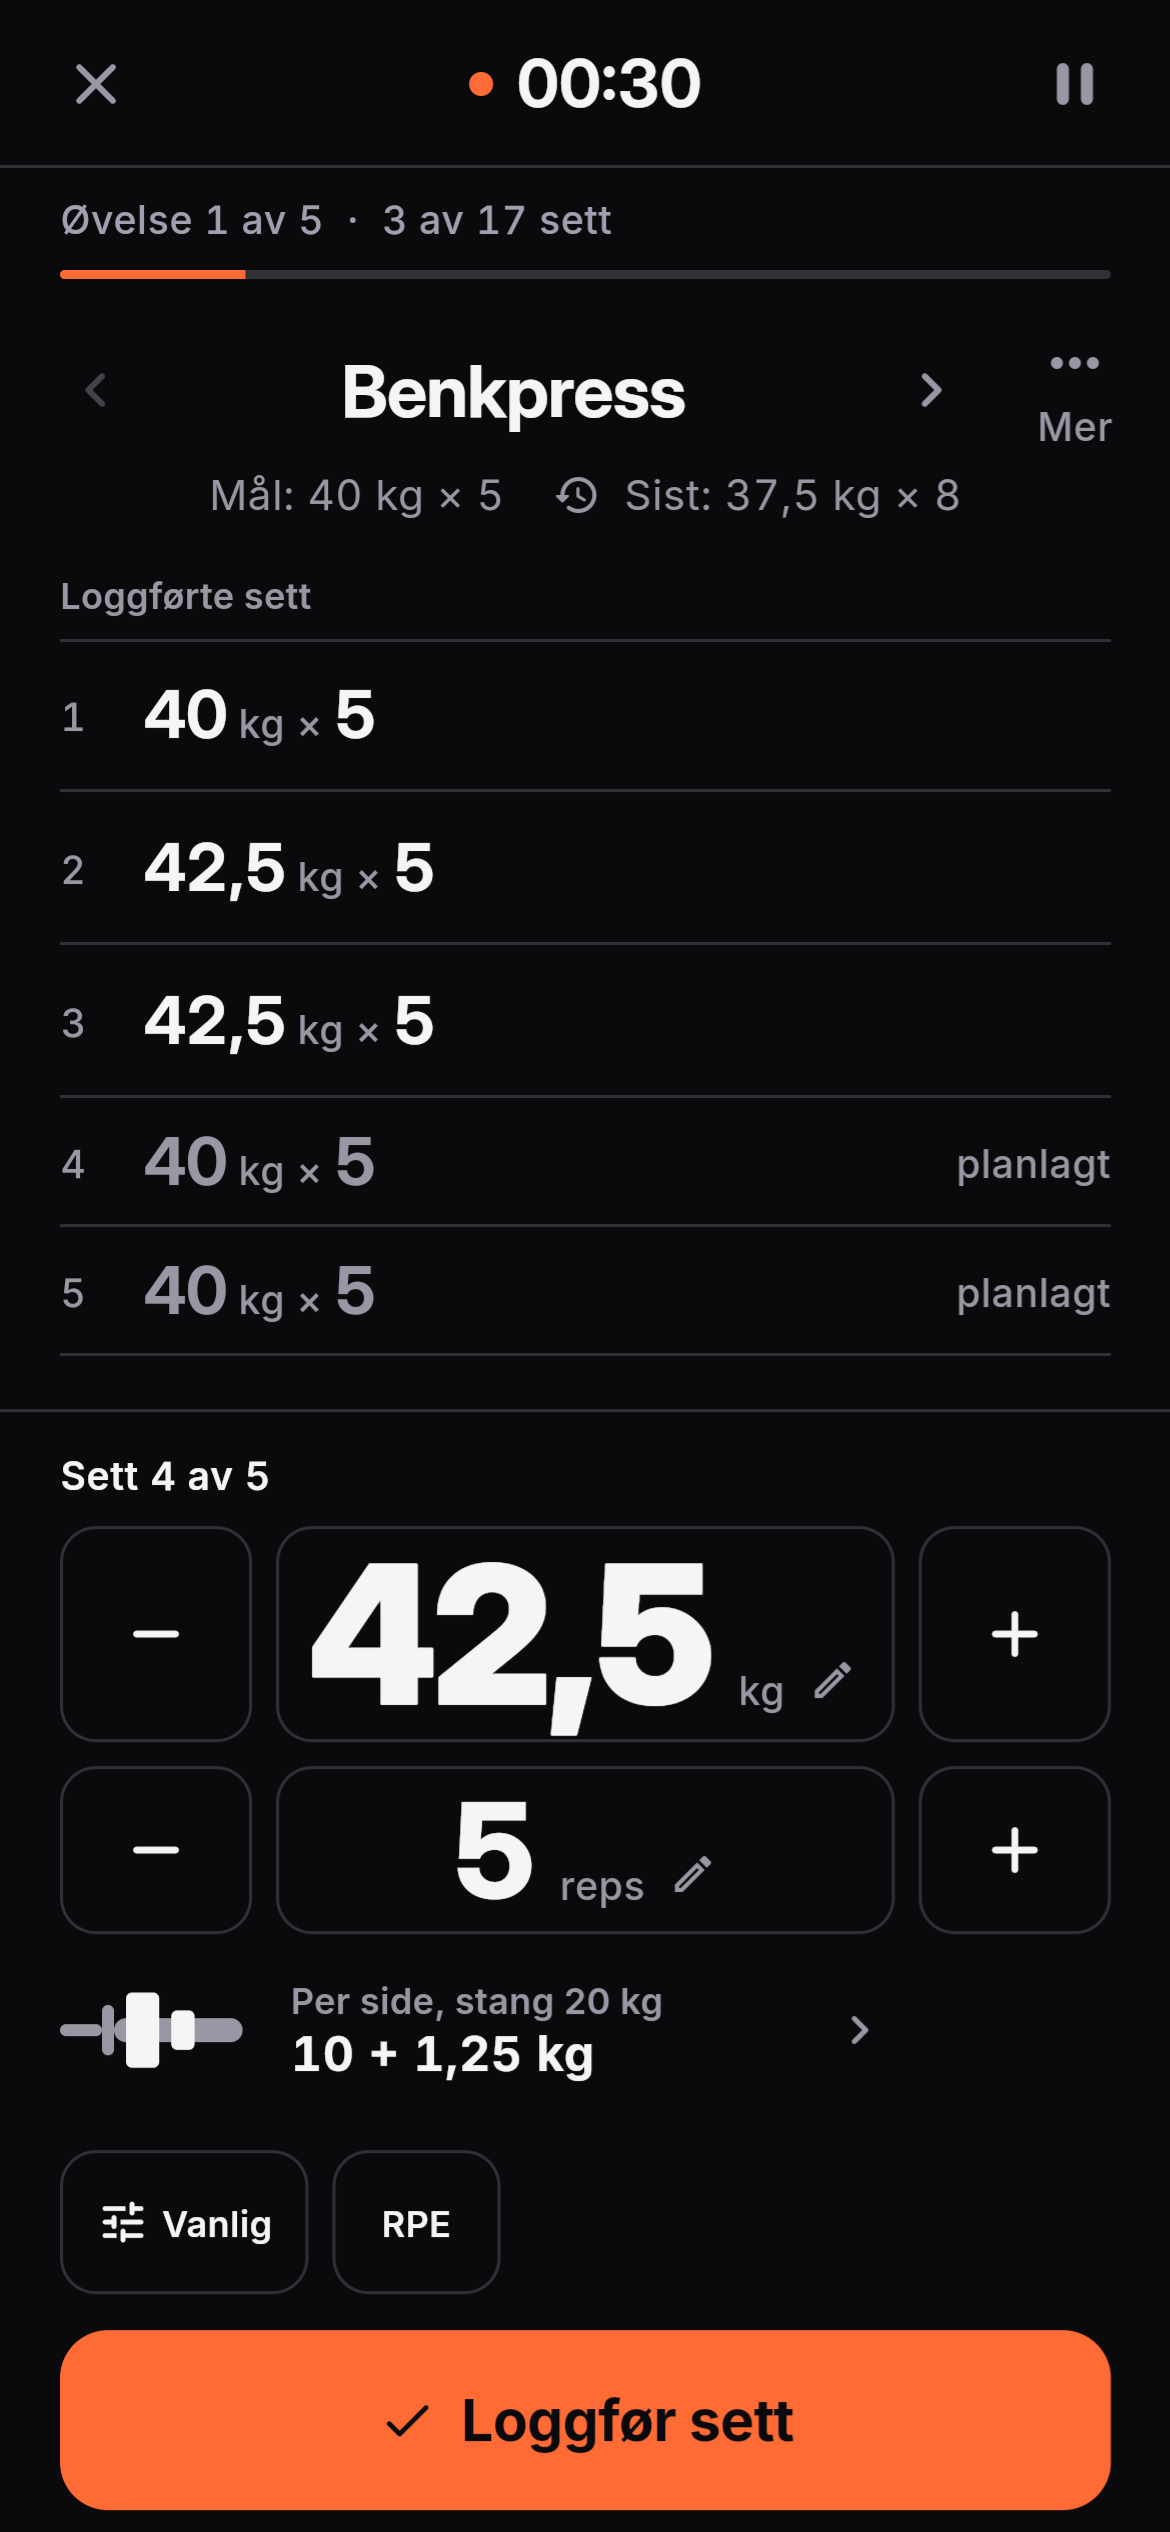
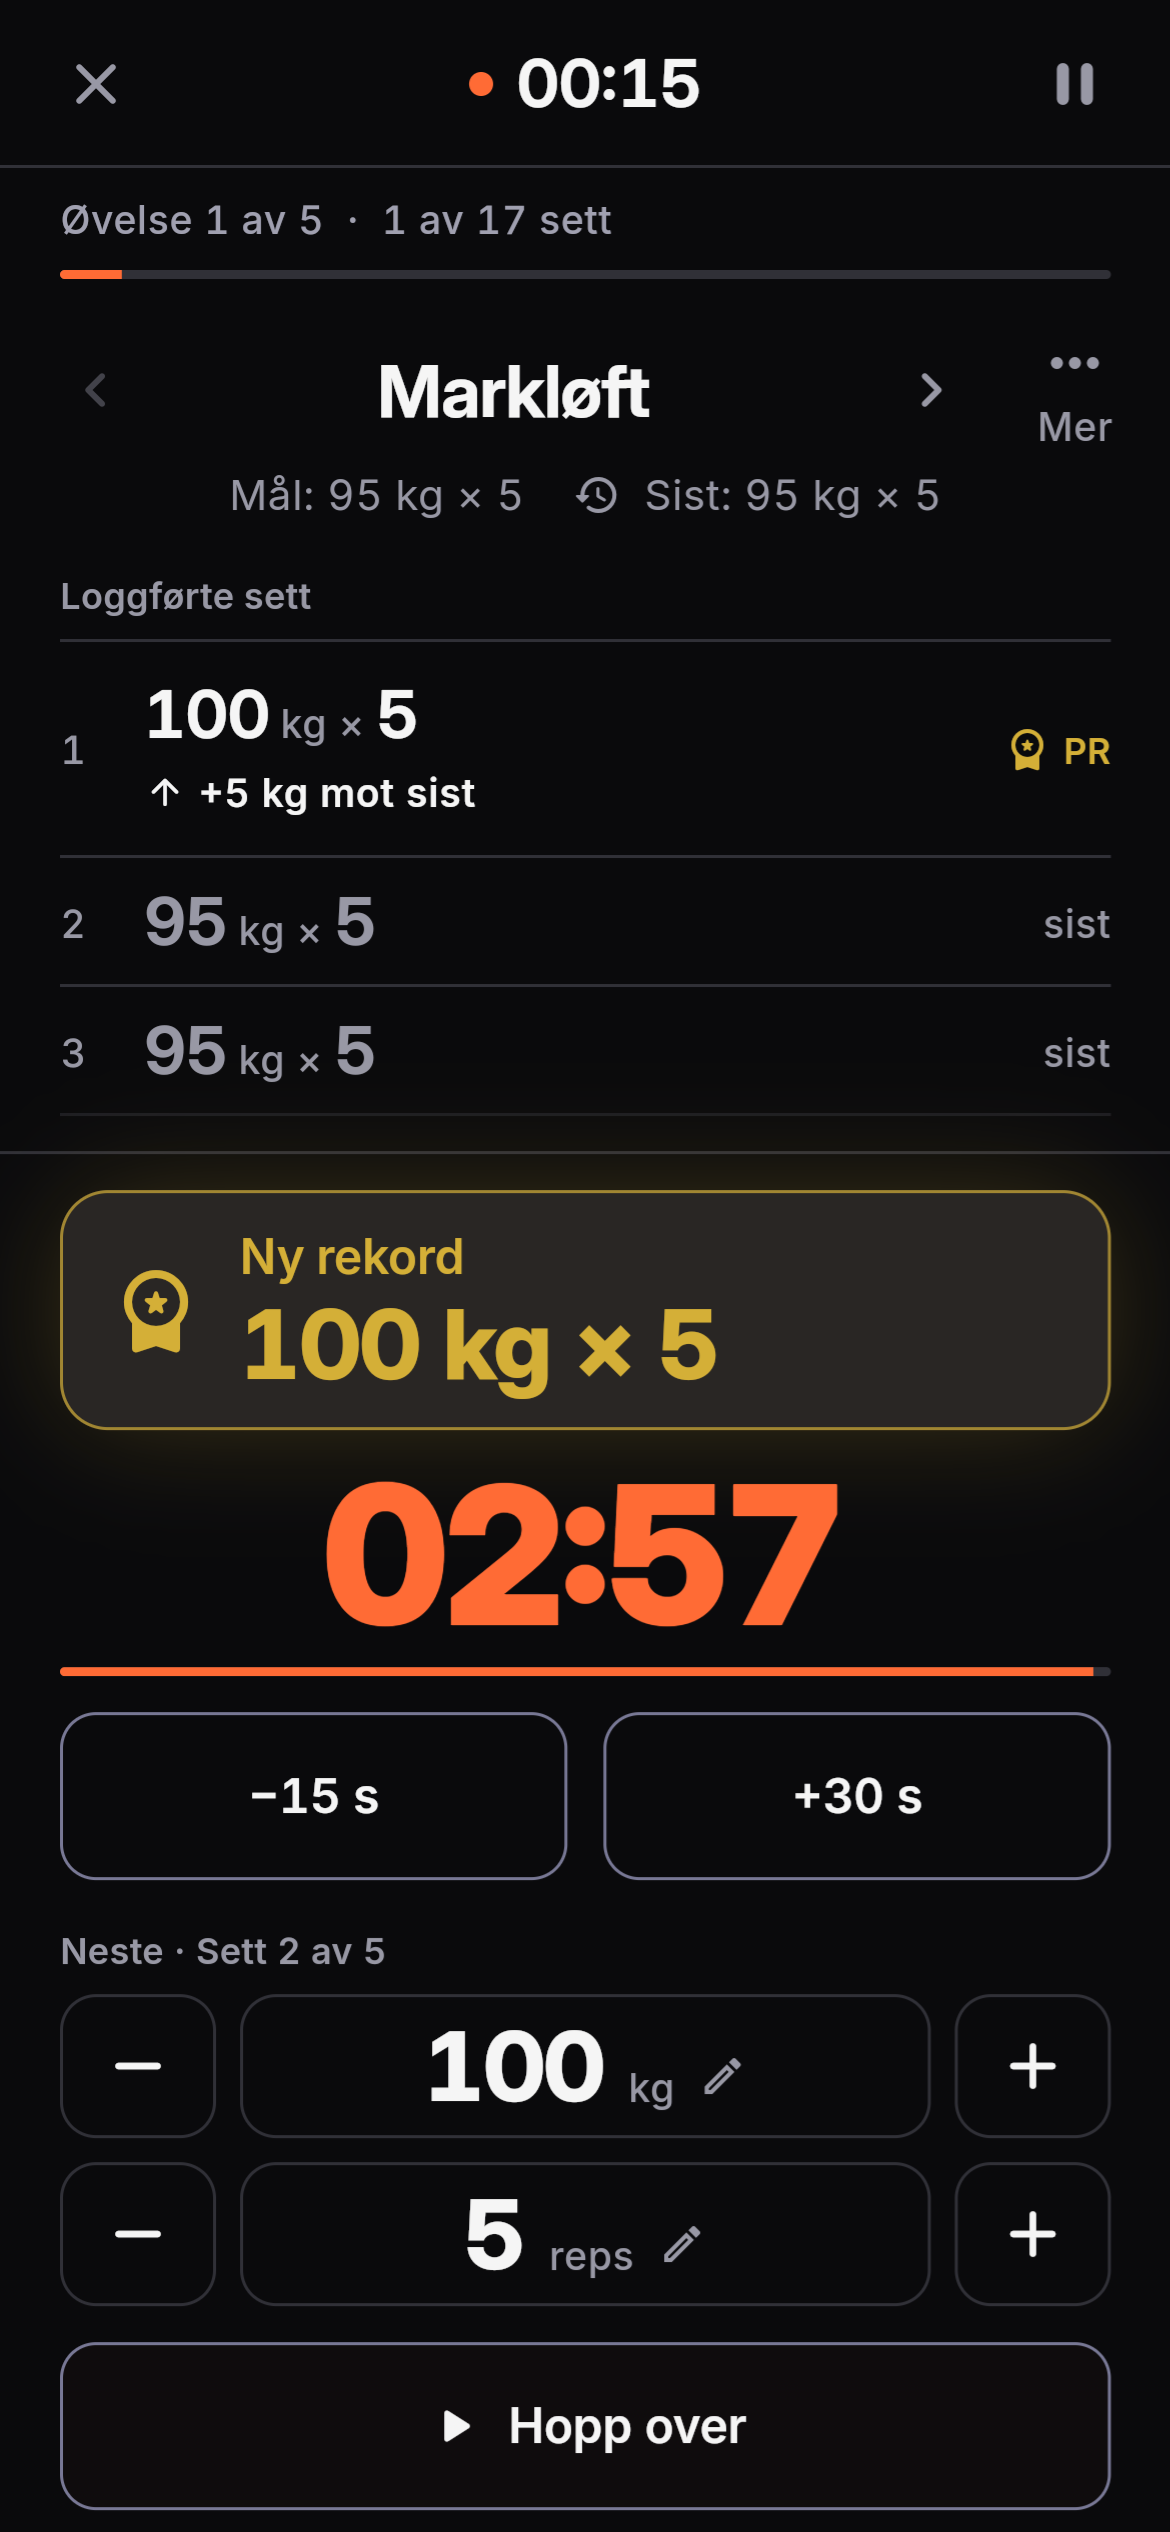
Show the exercise drawings and the gold record

diff --git a/src/site.css b/src/site.css
@@ -78,12 +78,12 @@ a:focus-visible,.btn:focus-visible{outline:2px solid var(--ember);outline-offset
 /* member scene: sticky phone, steps scroll past */
 .scene{padding:clamp(5rem,12vw,10rem) 0 clamp(3rem,8vw,6rem)}
 .scene__head .lead{margin-top:1.5rem}
-.scene__grid{display:grid;grid-template-columns:minmax(0,32rem) minmax(0,1fr);gap:clamp(2rem,6vw,6rem);margin-top:clamp(2rem,5vw,4rem);timeline-scope:--s1,--s2,--s3,--s4}
+.scene__grid{display:grid;grid-template-columns:minmax(0,32rem) minmax(0,1fr);gap:clamp(2rem,6vw,6rem);margin-top:clamp(2rem,5vw,4rem);timeline-scope:--s1,--s2,--s3,--s4,--s5}
 .steps{list-style:none;margin:0;padding:0 0 0 2rem;position:relative}
 .steps::before{content:"";position:absolute;left:0;top:0;bottom:0;width:1px;background:var(--hair)}
 .steps::after{content:"";position:absolute;left:0;top:0;bottom:0;width:1px;background:var(--ember);transform-origin:50% 0;transform:scaleY(1)}
 .step{min-height:72svh;display:flex;flex-direction:column;justify-content:center;gap:1rem;max-width:30rem}
-.step:nth-child(1){view-timeline-name:--s1}.step:nth-child(2){view-timeline-name:--s2}.step:nth-child(3){view-timeline-name:--s3}.step:nth-child(4){view-timeline-name:--s4}
+.step:nth-child(1){view-timeline-name:--s1}.step:nth-child(2){view-timeline-name:--s2}.step:nth-child(3){view-timeline-name:--s3}.step:nth-child(4){view-timeline-name:--s4}.step:nth-child(5){view-timeline-name:--s5}
 .step h3{font-size:clamp(1.8rem,3.2vw,3rem);font-weight:900;letter-spacing:-.025em;line-height:1.05}
 .step p{color:var(--ink-2);font-size:1.0625rem}
 .step__shot{display:none}
@@ -249,6 +249,7 @@ a:focus-visible,.btn:focus-visible{outline:2px solid var(--ember);outline-offset
     .screen:nth-child(2){animation:cf-wipe linear both;animation-timeline:--s2;animation-range:entry 80% contain 5%}
     .screen:nth-child(3){animation:cf-wipe linear both;animation-timeline:--s3;animation-range:entry 80% contain 5%}
     .screen:nth-child(4){animation:cf-wipe linear both;animation-timeline:--s4;animation-range:entry 80% contain 5%}
+    .screen:nth-child(5){animation:cf-wipe linear both;animation-timeline:--s5;animation-range:entry 80% contain 5%}
     @keyframes cf-rise{from{transform:translateY(3rem) scale(.96)}to{transform:none}}
     .gym__photo,.door,.mini{animation:cf-rise linear both;animation-timeline:view();animation-range:entry 0% cover 35%}
   }

diff --git a/src/index.html b/src/index.html
@@ -60,9 +60,14 @@
         <div class="step__shot">{{shot:01|I dag-skjermen med dagens økt fra programmet og en knapp for å starte}}</div>
       </li>
       <li class="step">
+        <h3>Hver øvelse viser hvordan.</h3>
+        <p>Over 250 øvelser har sin egen tegning: bevegelsen, og musklene som jobber, markert i oransje. Medlemmet ser hva som skal gjøres før stanga løftes av stativet.</p>
+        <div class="step__shot">{{shot:09|Øvelseskortet for knebøy med vektstang: tegning av bevegelsen med setemuskler og lår markert i oransje, sett, reps og hvile}}</div>
+      </li>
+      <li class="step">
         <h3>Vekten står der allerede.</h3>
         <p>Settet åpner med et forslag til vekt og repetisjoner, regnet ut fra forrige gang, og skivene per side står under. Ett trykk logger det. Hvilen teller ned etterpå, og en ny rekord vises i gull.</p>
-        <div class="step__shot">{{shot:02|Aktiv økt med benkpress, loggførte sett, vekt og repetisjoner fylt inn, skivene per side og knappen Loggfør sett}}</div>
+        <div class="step__shot">{{shot:02|Aktiv økt med markløft: et nytt sett er loggført, og en gull ramme viser Ny rekord mens hvilen teller ned}}</div>
       </li>
       <li class="step">
         <h3>Kvitteringen viser hva som ble bedre.</h3>
@@ -78,6 +83,7 @@
     <div class="phone" aria-hidden="true">
       <div class="phone__glass">
         <div class="screen">{{shot:01|}}</div>
+        <div class="screen">{{shot:09|}}</div>
         <div class="screen">{{shot:02|}}</div>
         <div class="screen">{{shot:03|}}</div>
         <div class="screen">{{shot:04|}}</div>
